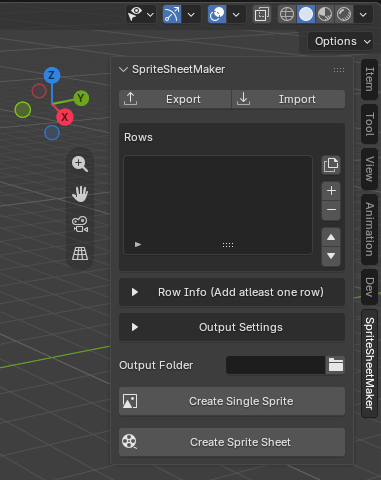
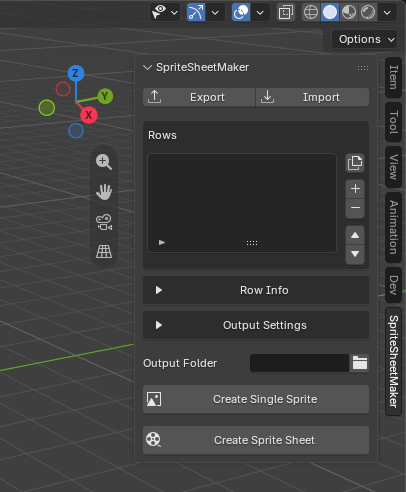
Improved "Add atleast one row first" warning label visually Updated README to reflect changes

diff --git a/__init__.py b/__init__.py
@@ -1310,14 +1310,18 @@ class SSM_PT_MainPanel(Panel):
         ops.operator('spritesheetmaker.move_row', icon='TRIA_DOWN', text="").direction = 'DOWN'
 
 
-        # Row Info
+        # Row Info (Collapsible)
         has_row = len(scene.animation_rows) > 0 and 0 <= scene.row_index < len(scene.animation_rows)
         box = layout.box()
-        box.prop(props, "show_row_info", icon="TRIA_DOWN" if props.show_row_info else "TRIA_RIGHT", emboss=False, text=f"Row Info{'' if has_row else ' (Add atleast one row)'}")
+        box.prop(props, "show_row_info", icon="TRIA_DOWN" if props.show_row_info else "TRIA_RIGHT", emboss=False, text=f"Row Info")
         if(props.show_row_info):
-            box.enabled = has_row
             if has_row:
                 self.draw_row_info(context, scene, box)
+            else:
+                row = box.row()
+                row.alignment = 'CENTER'
+                row.enabled = False
+                row.label(text="Add atleast one row first")
 
 
         # Output Settings (Collapsible)
